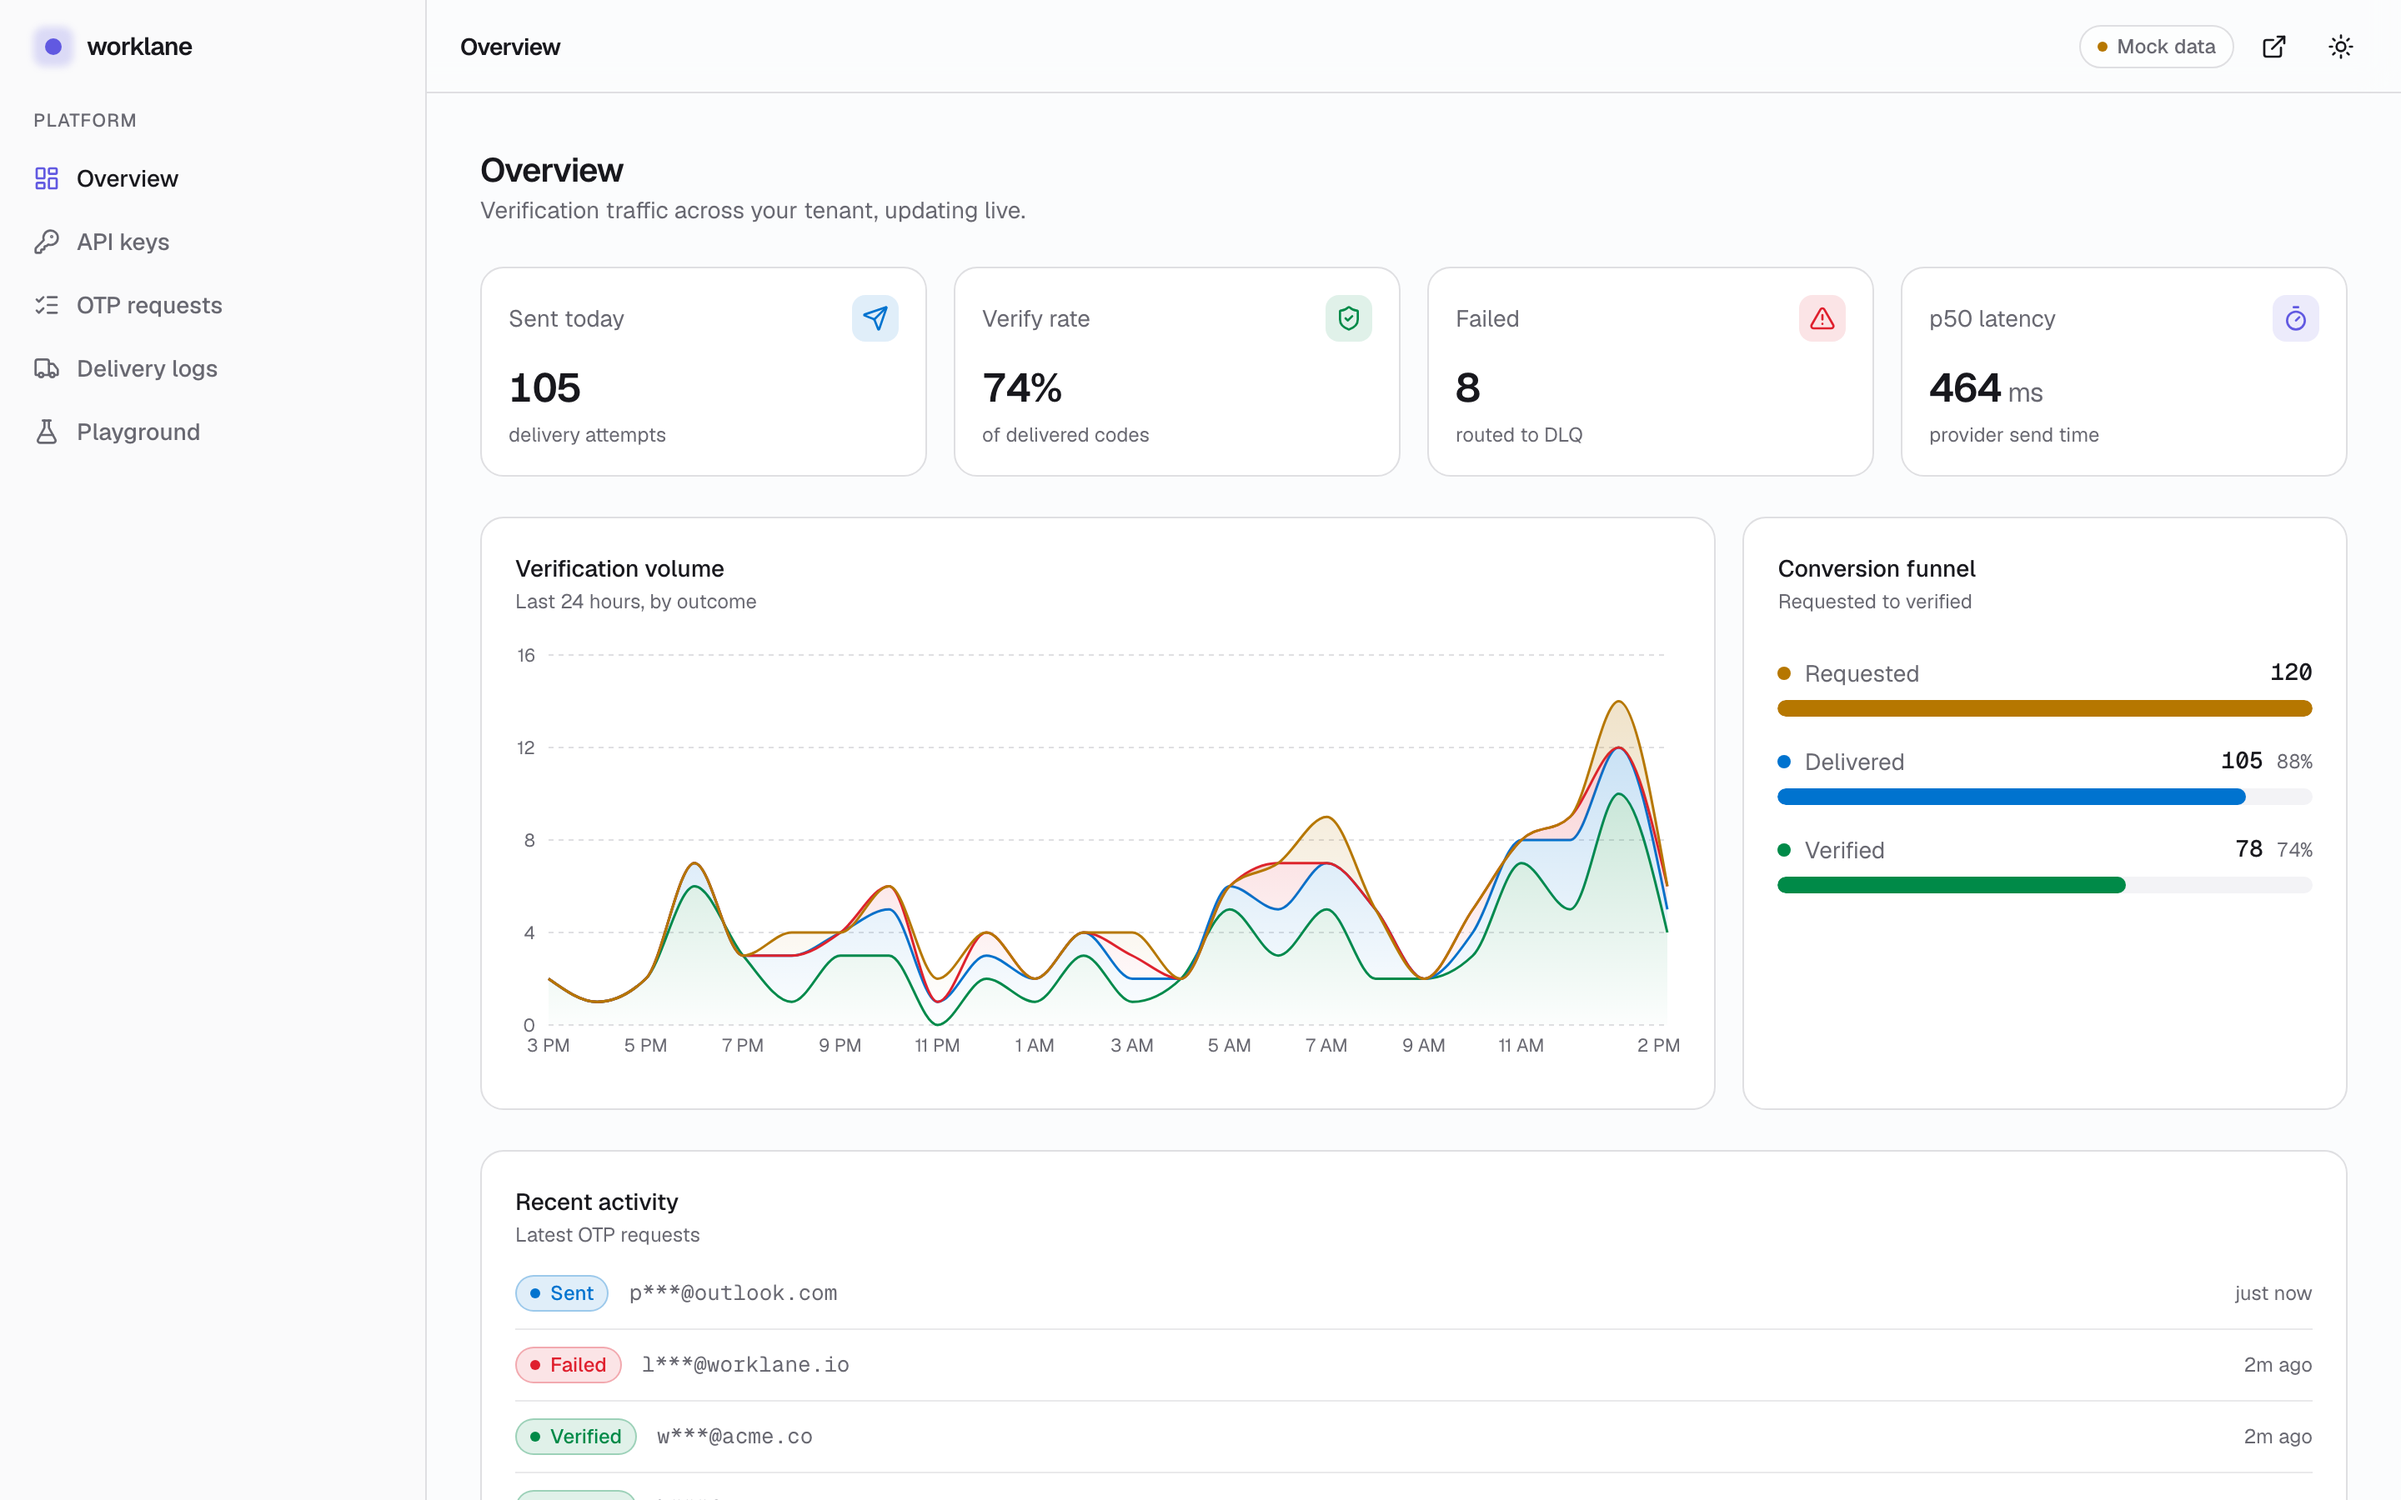
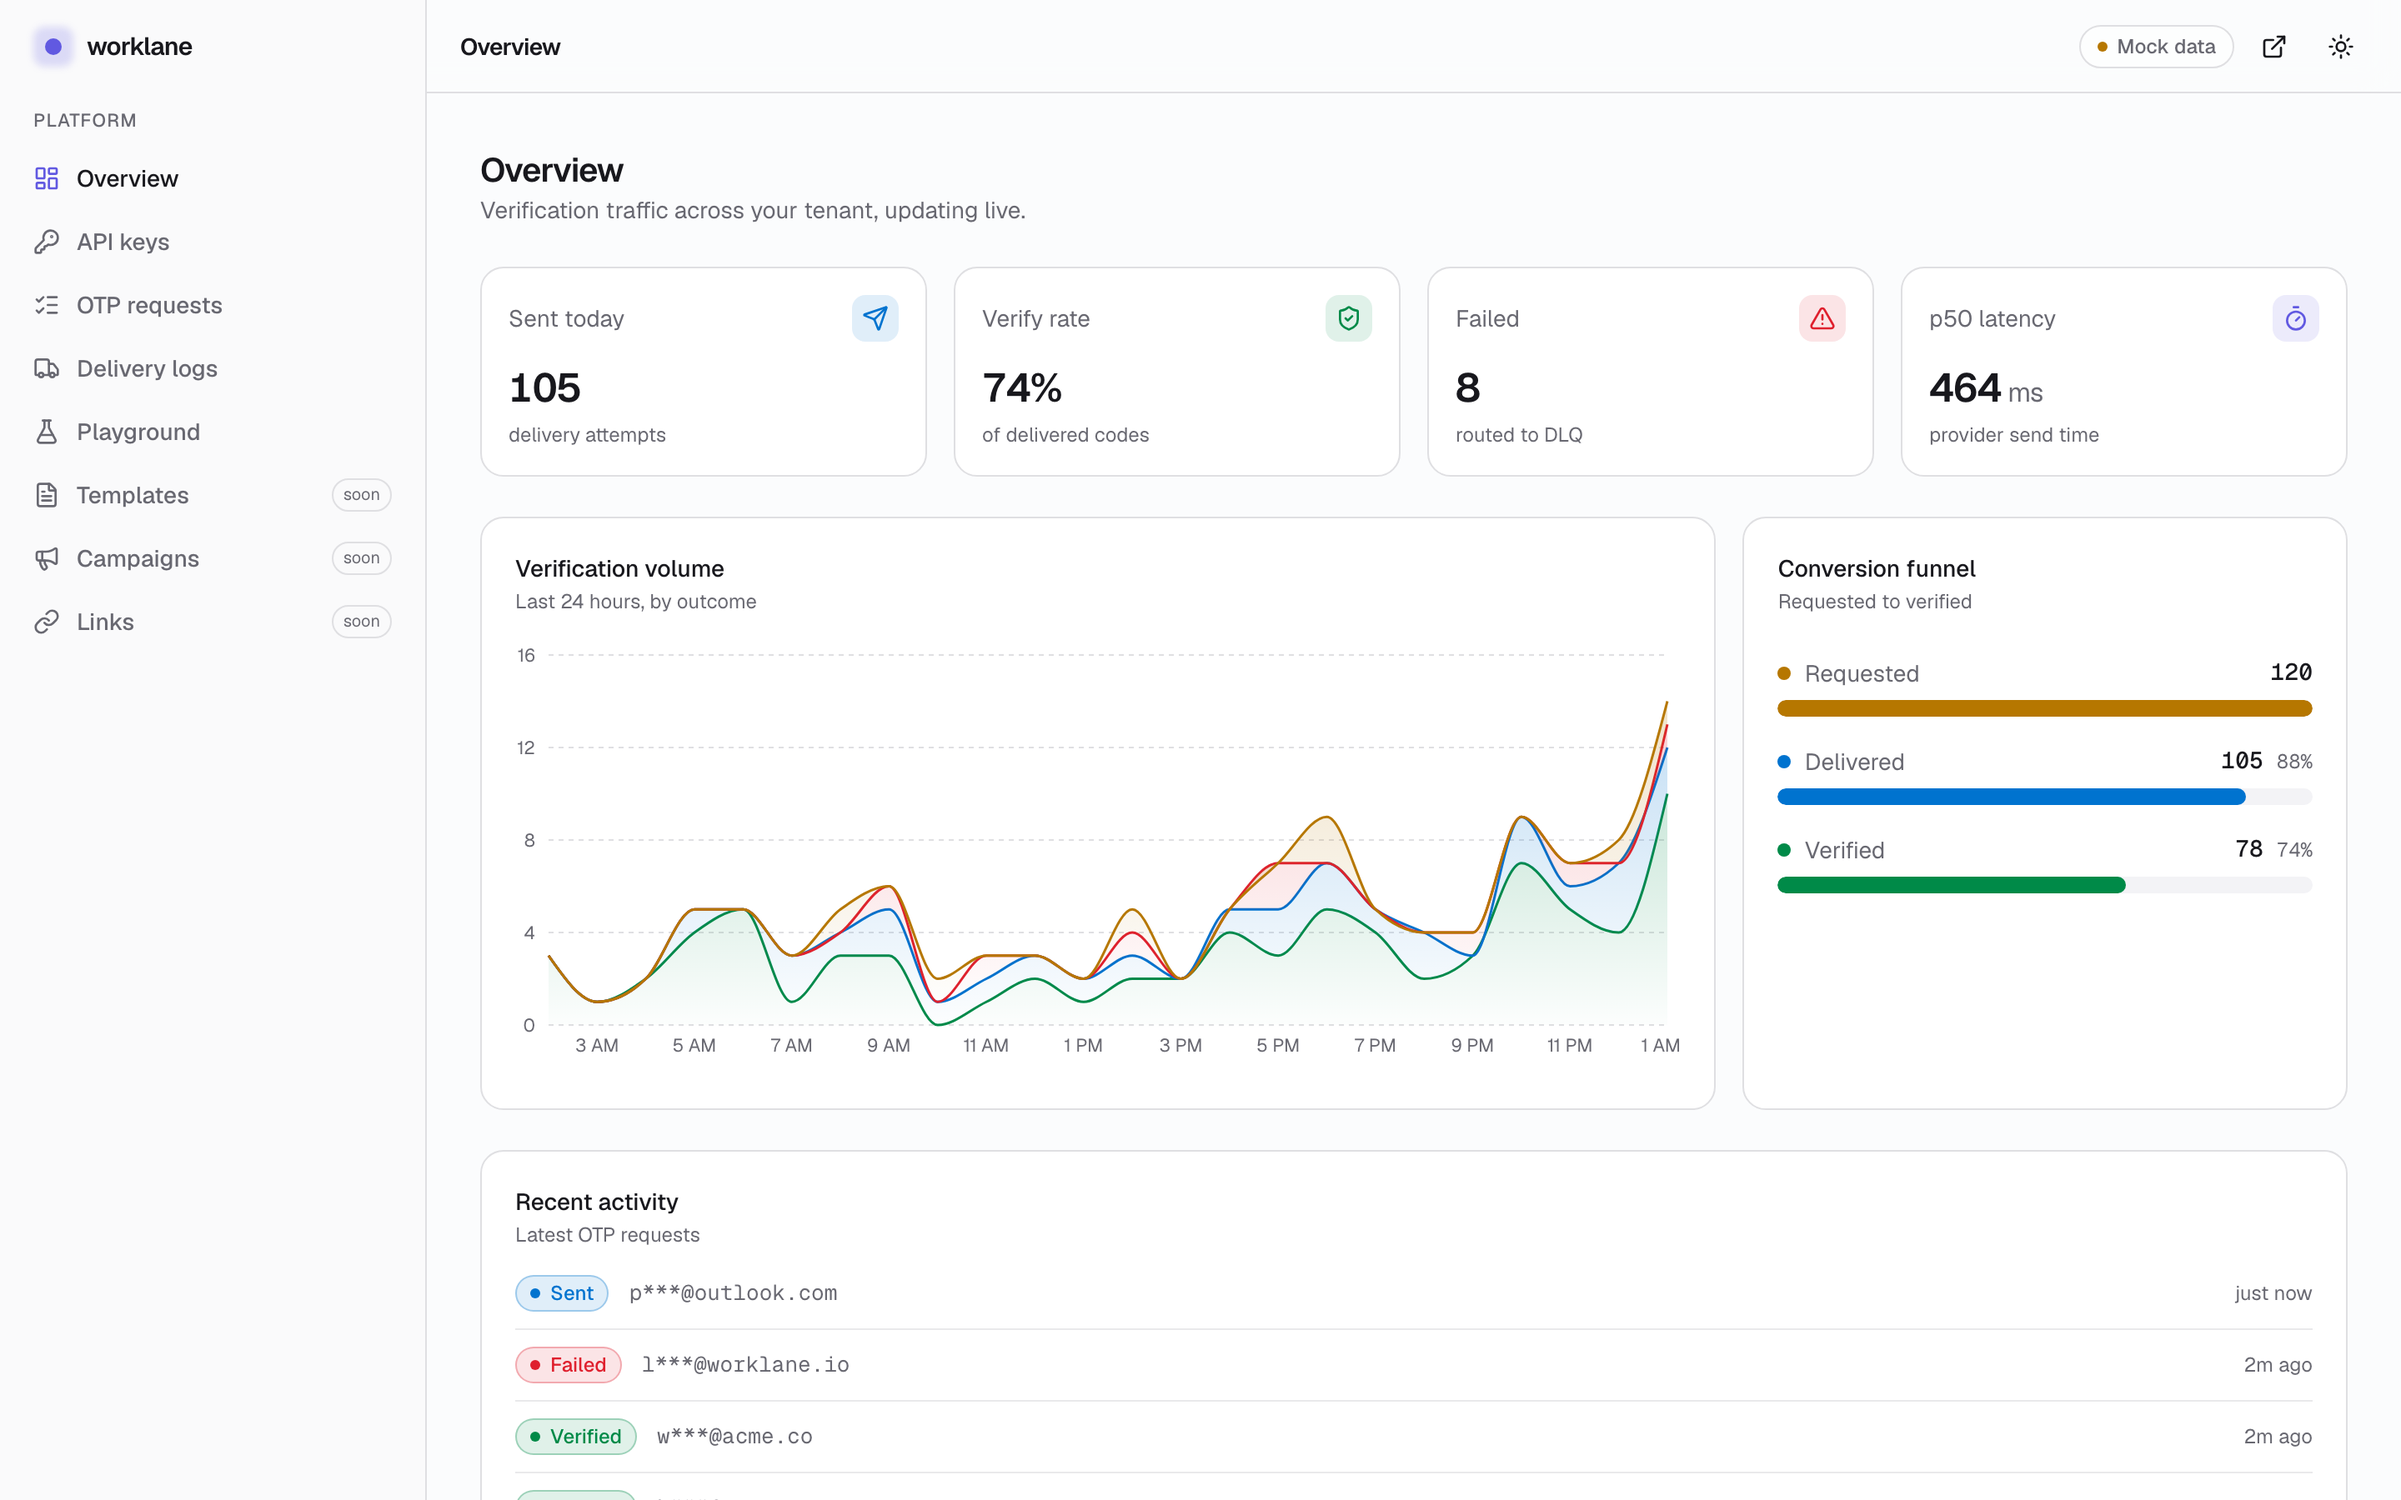
docs(dashboard): capture and gallery for roadmap screens + request detail

diff --git a/dashboard/scripts/capture.ts b/dashboard/scripts/capture.ts
@@ -22,6 +22,10 @@ const ROUTES = [
   { path: "/requests", name: "requests" },
   { path: "/logs", name: "logs" },
   { path: "/playground", name: "playground" },
+  { path: "/templates", name: "templates" },
+  { path: "/campaigns", name: "campaigns" },
+  { path: "/links", name: "links" },
+  { path: "/login", name: "login" },
 ];
 const THEMES = ["dark", "light"] as const;
 
@@ -50,6 +54,19 @@ async function main() {
       await page.screenshot({ path: file });
       console.log("captured", path.relative(process.cwd(), file));
     }
+
+    // Request detail is reached by opening a row; capture it separately.
+    await page.goto(BASE + "/requests", { waitUntil: "networkidle" });
+    await page.waitForTimeout(1000);
+    const firstRow = page.getByRole("button").filter({ hasText: "req_" }).first();
+    if (await firstRow.count()) {
+      await firstRow.click();
+      await page.waitForTimeout(600);
+      const detailFile = path.join(OUT, `request-detail-${theme}.png`);
+      await page.screenshot({ path: detailFile });
+      console.log("captured", path.relative(process.cwd(), detailFile));
+    }
+
     await context.close();
   }
 

diff --git a/docs/dashboard-gallery.md b/docs/dashboard-gallery.md
@@ -17,11 +17,21 @@ _Light: [overview-light.png](assets/dashboard/overview-light.png)_
 ## OTP requests
 
 Full request history with state filter chips, recipient search, sortable columns,
-and pagination. Recipients are masked at rest.
+and pagination. Recipients are masked at rest. Select a request for its lifecycle.
 
 ![OTP requests](assets/dashboard/requests-dark.png)
 
 _Light: [requests-light.png](assets/dashboard/requests-light.png)_
+
+## Request detail
+
+Row opens a master → detail view: a lifecycle timeline (requested → delivered →
+verified, with failed/expired stopping short) and attributes joined from the
+delivery log (provider, latency, provider error).
+
+![Request detail](assets/dashboard/request-detail-dark.png)
+
+_Light: [request-detail-light.png](assets/dashboard/request-detail-light.png)_
 
 ## Delivery logs
 
@@ -49,3 +59,45 @@ code is revealed (as MailHog would) so you can complete the round trip.
 ![Playground](assets/dashboard/playground-dark.png)
 
 _Light: [playground-light.png](assets/dashboard/playground-light.png)_
+
+## Roadmap screens
+
+Proposed surfaces laid out from shipped worklane patterns and driven by local
+fixtures. Each carries a dashed "not in the codebase yet" notice and appears in the
+sidebar with a `soon` tag. They are UI proposals, not wired to any API.
+
+### Templates
+
+Author a message once; the dispatcher renders from it. Row opens an editor with
+live preview, version history, and recent sends.
+
+![Templates](assets/dashboard/templates-dark.png)
+
+_Light: [templates-light.png](assets/dashboard/templates-light.png)_
+
+### Campaigns
+
+Send an OTP batch or a marketing message to a saved audience or an uploaded list.
+The composer estimates recipient scope and send window live before a confirm step.
+
+![Campaigns](assets/dashboard/campaigns-dark.png)
+
+_Light: [campaigns-light.png](assets/dashboard/campaigns-light.png)_
+
+### Links
+
+Short links carried by notifications, with click KPIs, a 14-day clicks-over-time
+chart, and recent-click events.
+
+![Links](assets/dashboard/links-dark.png)
+
+_Light: [links-light.png](assets/dashboard/links-light.png)_
+
+### Login
+
+The OTP loop applied to sign-in. Standalone (no shell); the real dashboard
+authenticates with a bearer key, not a session.
+
+![Login](assets/dashboard/login-dark.png)
+
+_Light: [login-light.png](assets/dashboard/login-light.png)_
